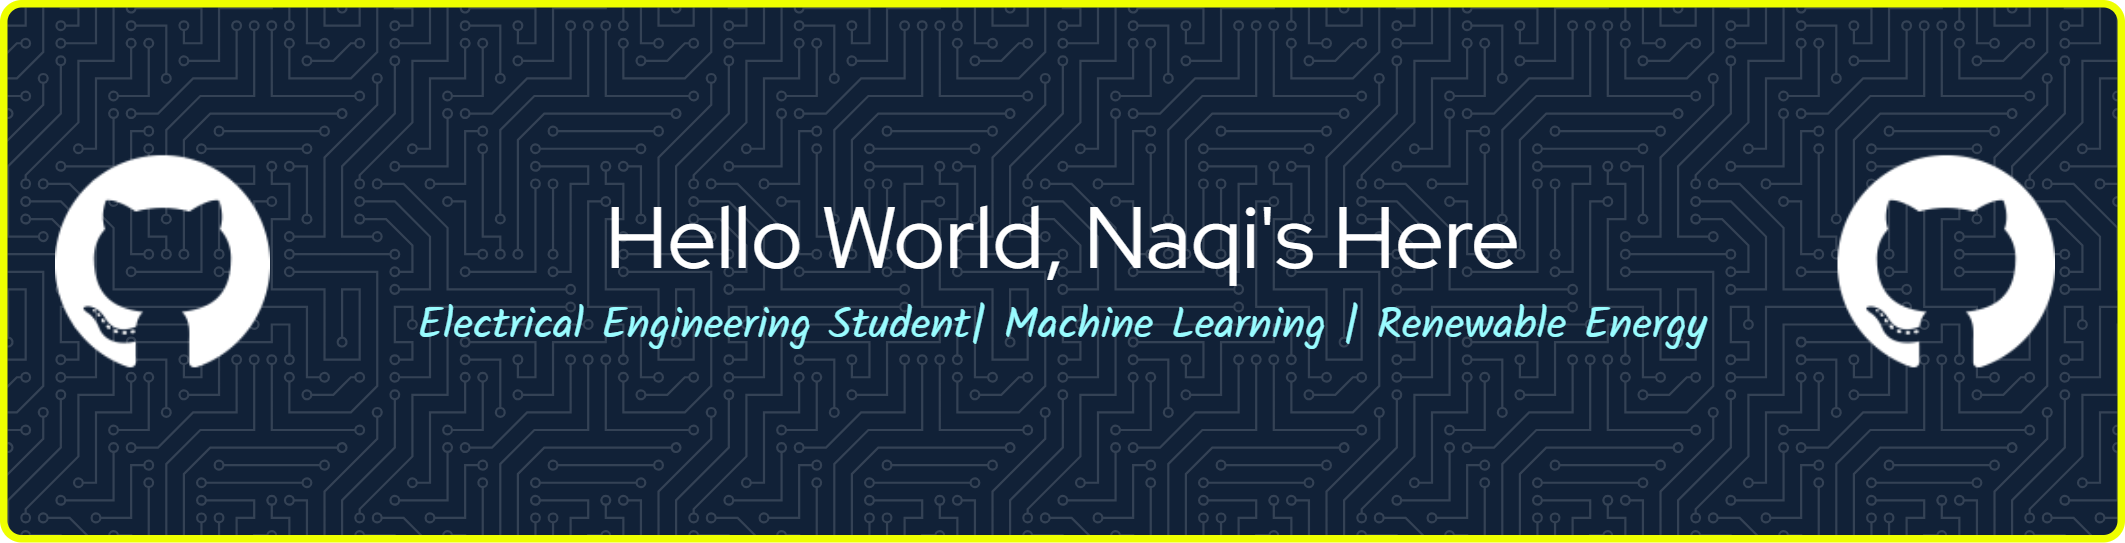
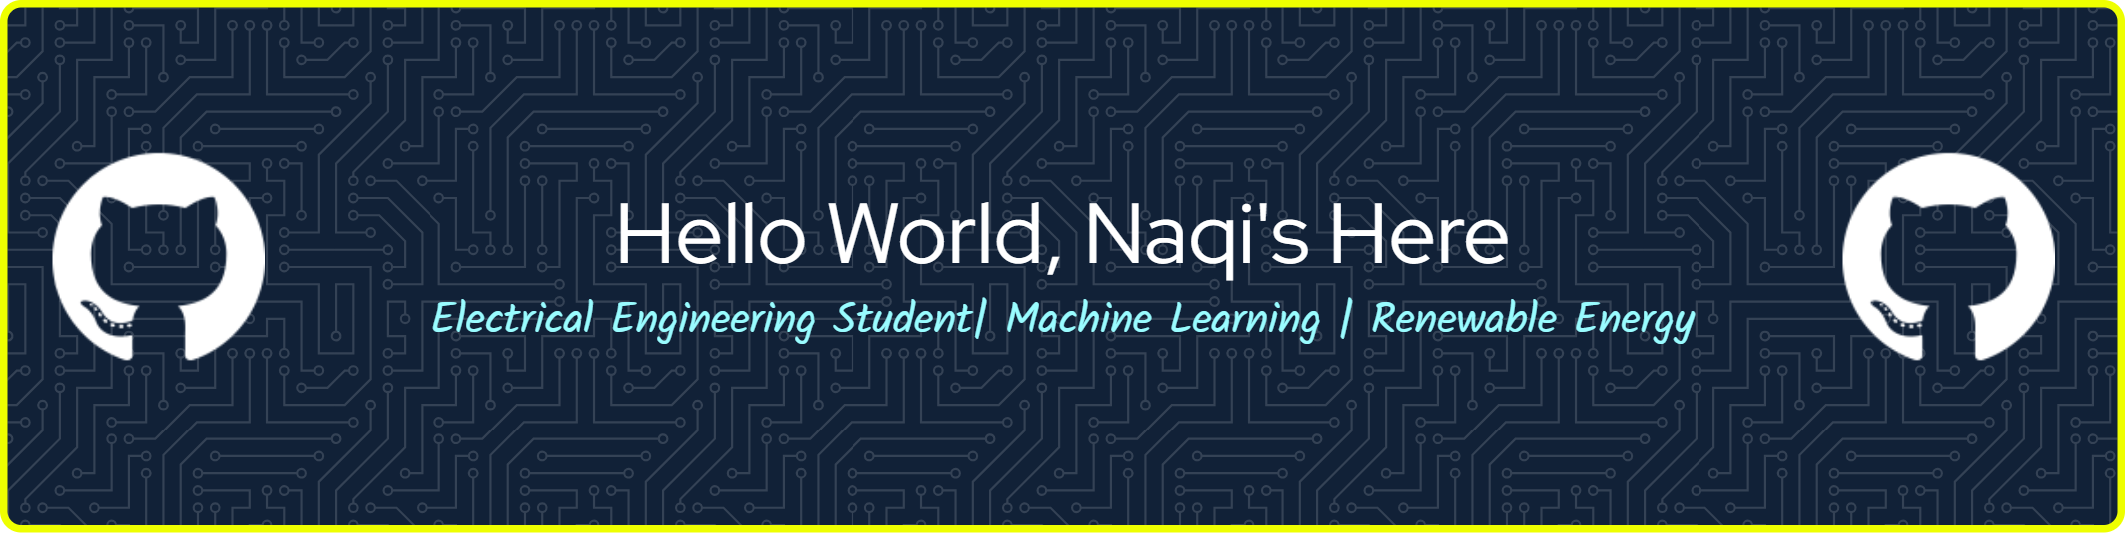
Add spacing in README.md and update header image

Changed region(s): [[0.0311, 0.0, 0.9939, 0.9906]]

diff --git a/README.md b/README.md
@@ -5,5 +5,15 @@
 <b>Machine Learning engineer focused on TinyML and edge devices.</b><br>
 <b>Applying ML to robotics and renewable energy systems.</b>
 </h3>
+<br>
 
-### Current Focus
+#### Current Focus
+Right now I'm exploring energy harvesting with ESP32 microcontrollers and sharpening my machine learning skills through a coding camp.
+
+#### Tech Stack
+Kotlin, Python, JavaScript, ESP32, Arduino, Etc
+
+#### Learning & Explore
+
+#### Contact Me
+
